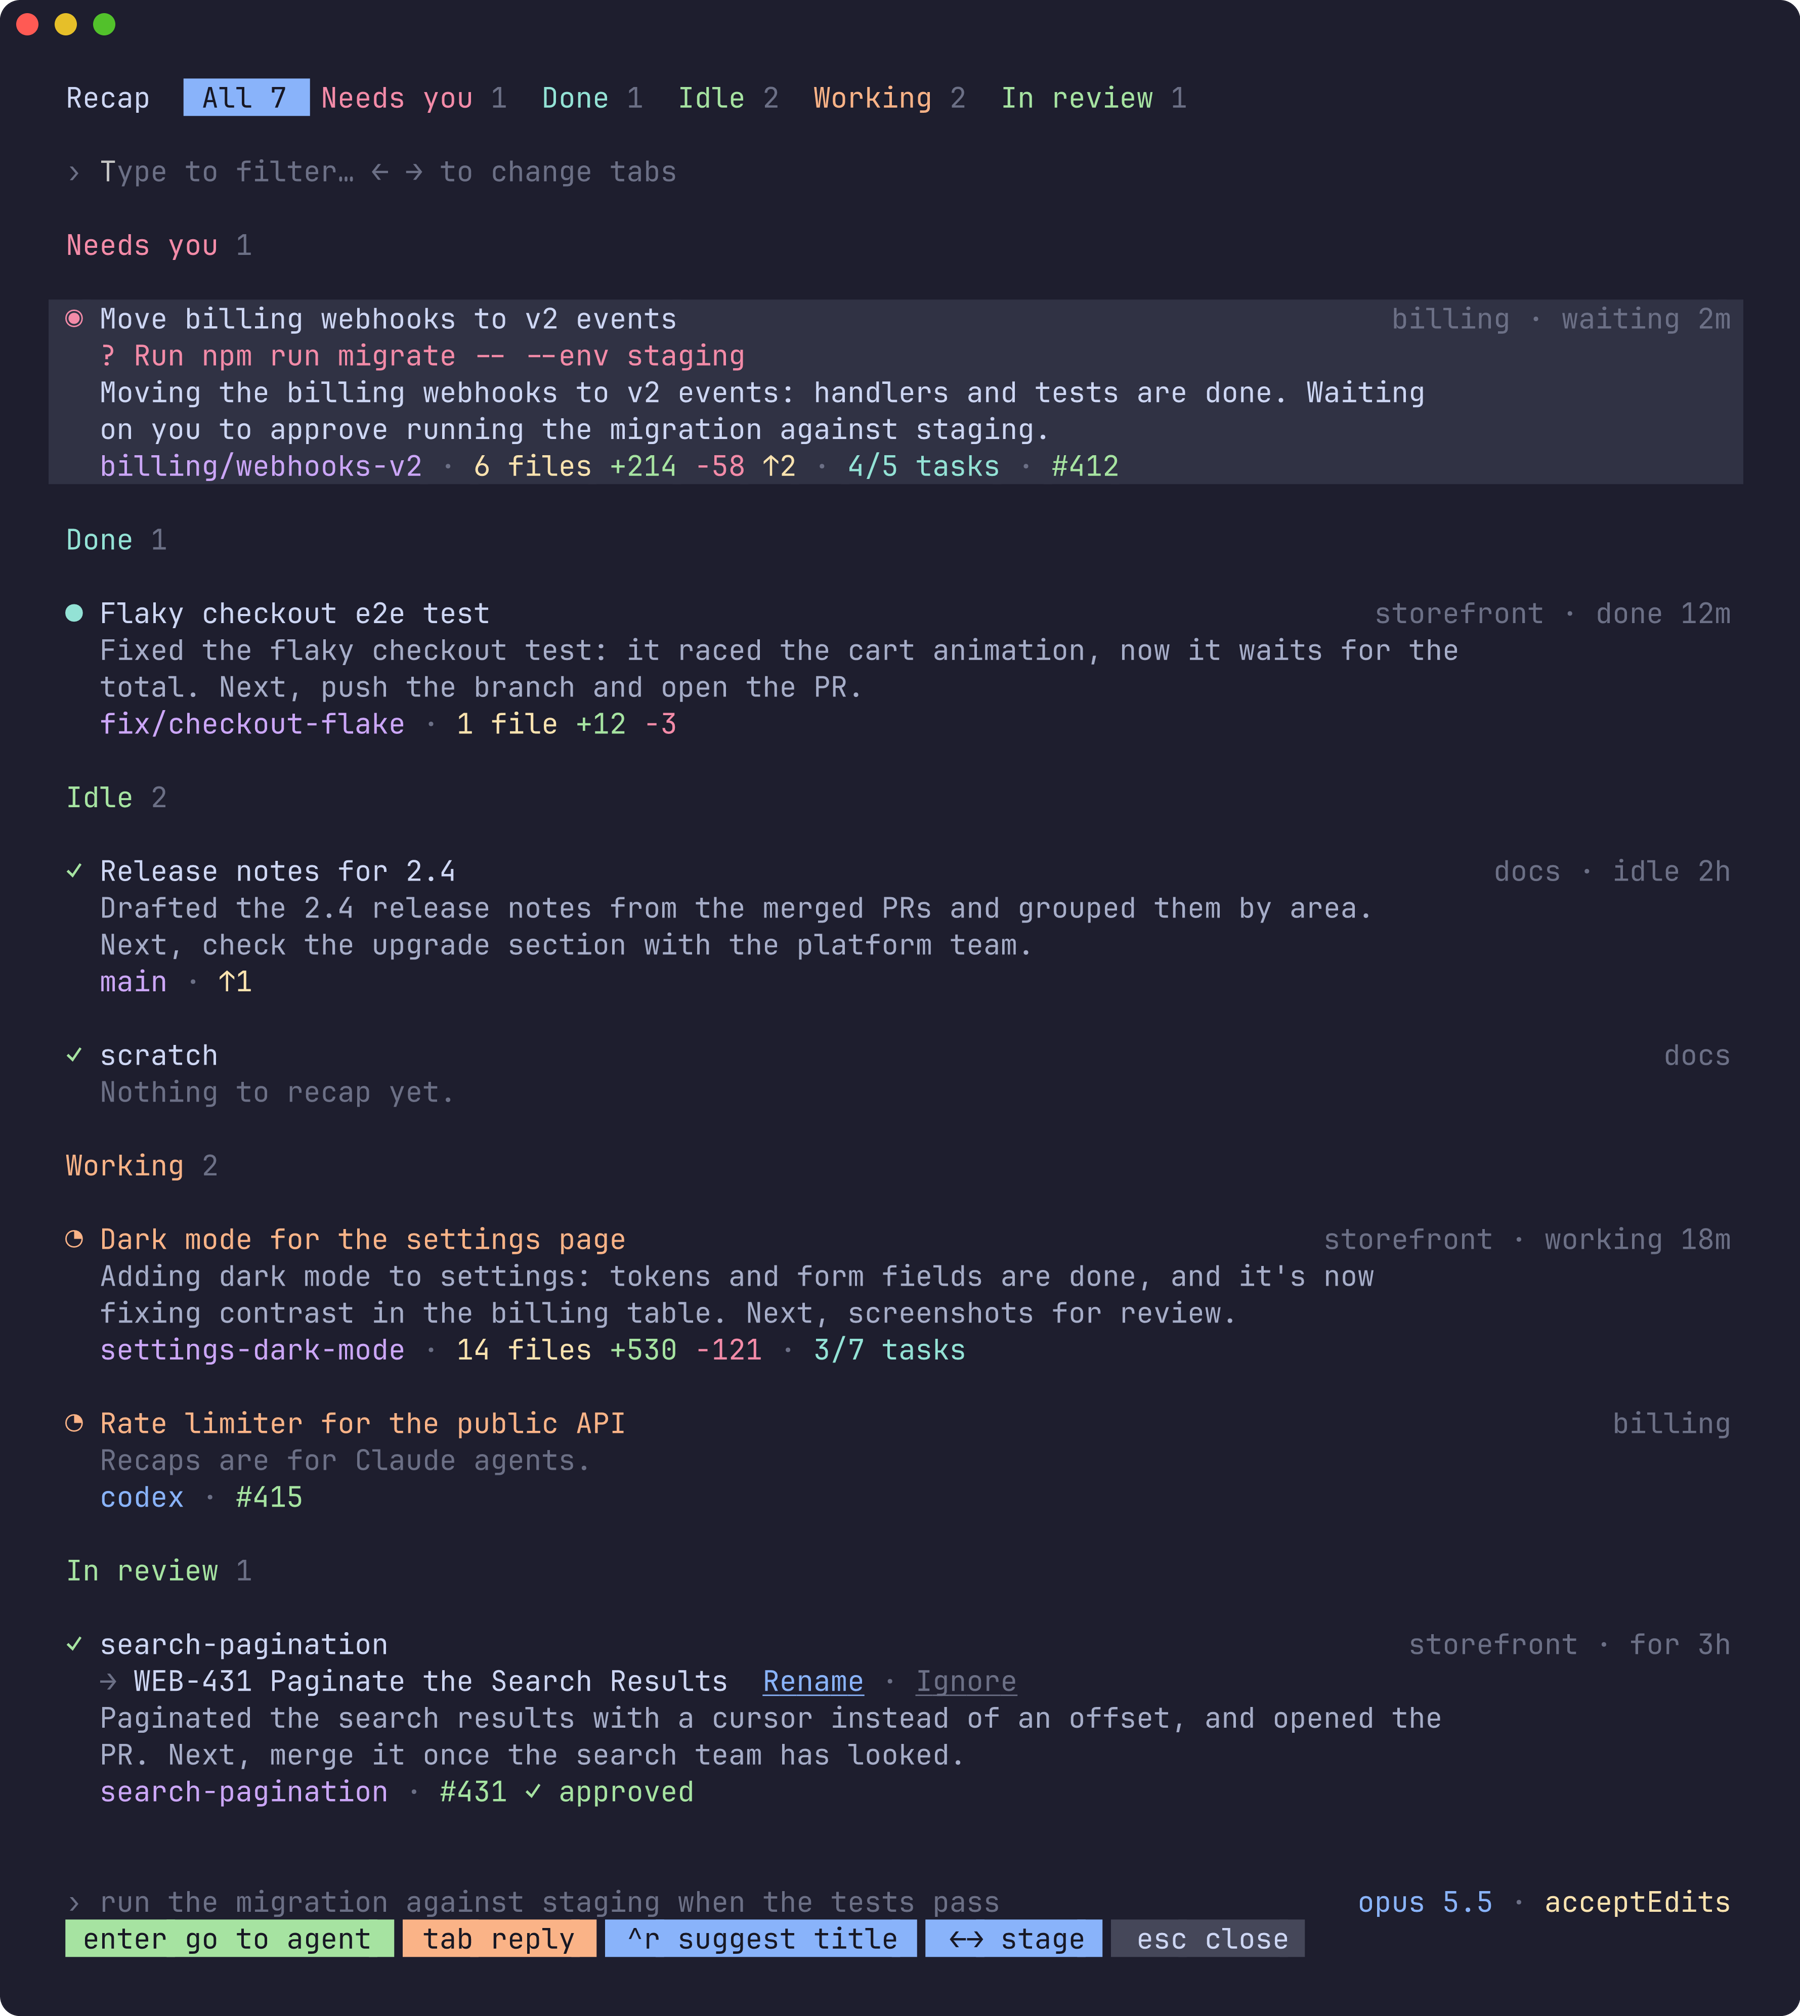
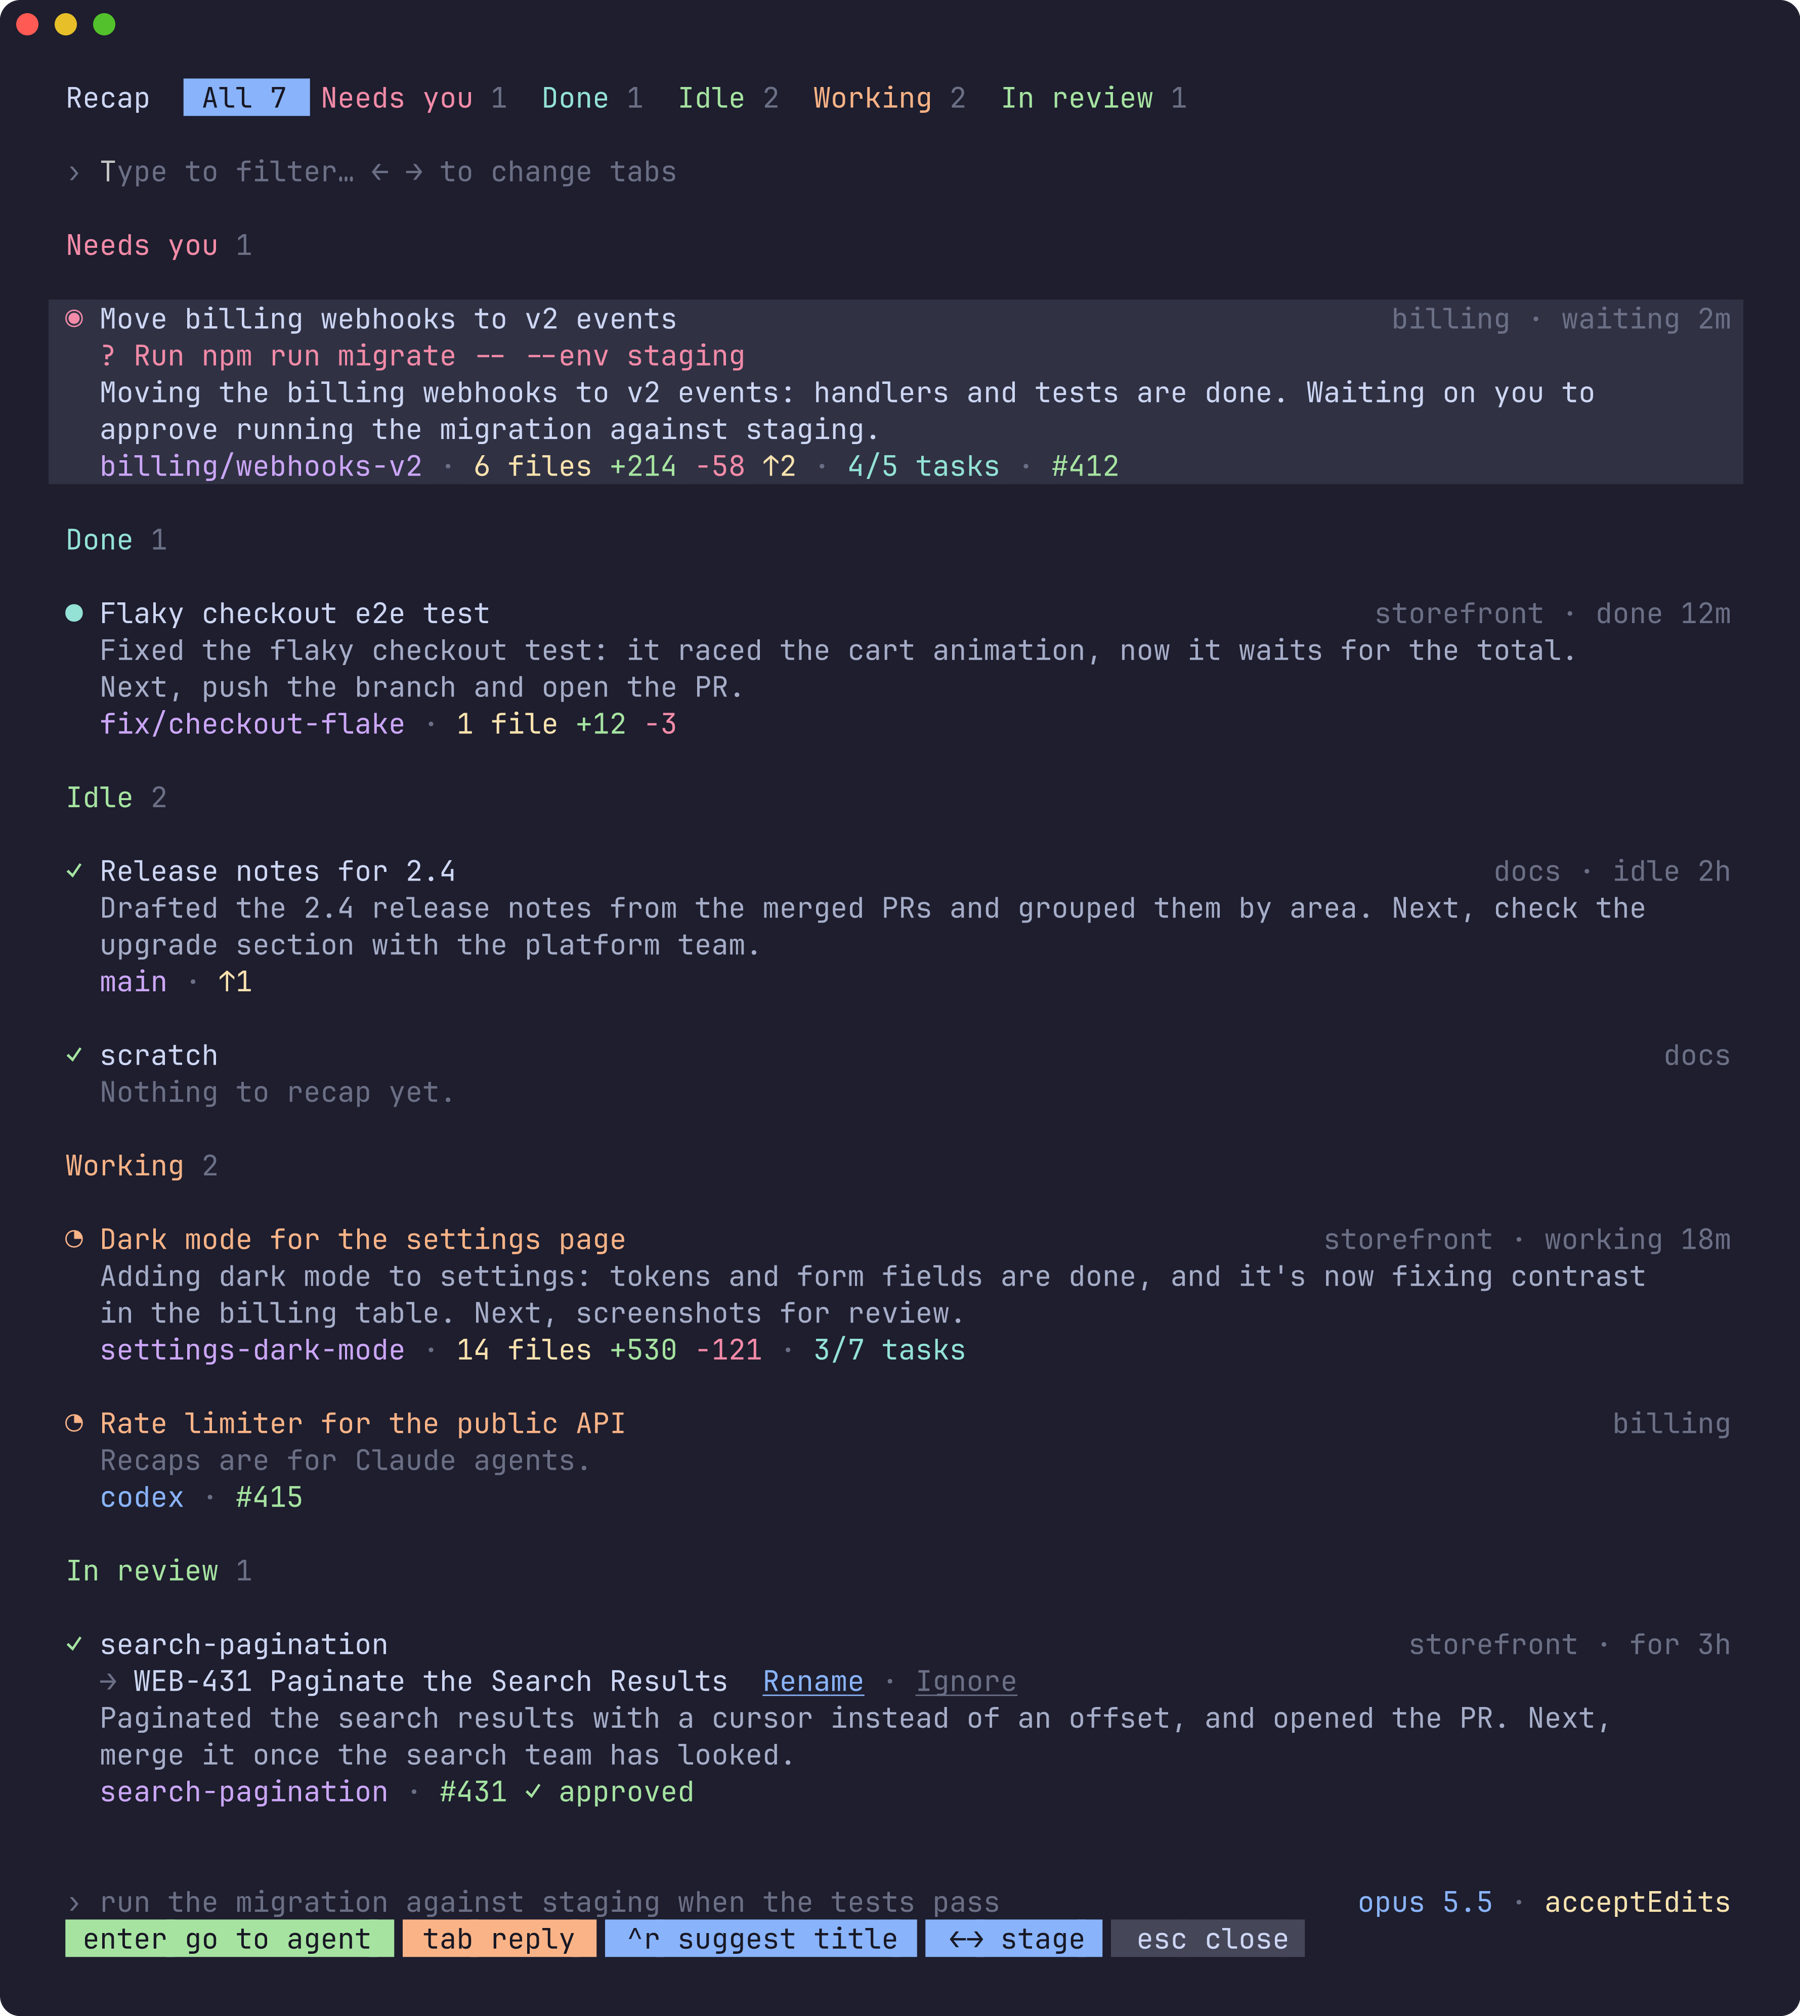
Release 0.5.1: a recap runs the width of the popup
Recap lines stopped at 80 columns whatever the popup's width, which on a
wide terminal left most of it empty and kept every recap at three lines.
They wrap near the popup's edge now, a line or two on a wide one, so more
agents fit. The margin on the right grows with the popup: 3 cells on a
narrow one, up to 8 on a wide one.

Screenshots regenerated.

diff --git a/tui.go b/tui.go
@@ -863,12 +863,15 @@ func (m model) listHeight() int {
 	return max(3, m.height-listTop-2-max(0, m.replyLines()-1))
 }
 
-// maxRecapWidth keeps recap lines to a comfortable measure on a wide popup.
-const maxRecapWidth = 80
-
-// recapWidth is the room a recap line has: indented under the title, and no
-// wider than maxRecapWidth.
-func (m model) recapWidth() int { return max(10, min(maxRecapWidth, m.width-6)) }
+// recapWidth is the room a recap line has: indented under the title, and
+// short of the popup's right edge by a margin that grows with the popup (3
+// cells on a narrow one, 8 on a wide one), so the text doesn't run into the
+// border. On a wide popup a recap is a line or two, not three, and more
+// agents fit.
+func (m model) recapWidth() int {
+	margin := min(8, max(3, m.width/16))
+	return max(10, m.width-3-margin)
+}
 
 // body is what goes under an agent's title: its recap wrapped, or why there
 // isn't one.

diff --git a/tui_test.go b/tui_test.go
@@ -496,6 +496,26 @@ func TestAWorkingAgentIsRecappedOnceWhileOpen(t *testing.T) {
 	}
 }
 
+func TestARecapUsesAWidePopupsWidth(t *testing.T) {
+	m, _ := demoModel(t)
+	e := m.entries["w2:p1"] // its recap is two lines at 100 wide
+	if lines, _ := m.body(e); len(lines) != 2 {
+		t.Fatalf("%d lines at 100 wide: %q", len(lines), lines)
+	}
+	m.width = 200
+	lines, _ := m.body(e)
+	if len(lines) != 1 || ansi.StringWidth(lines[0]) <= 100 {
+		t.Errorf("%d lines at 200 wide: %q", len(lines), lines)
+	}
+	// Short of the right edge, by more on a wide popup than a narrow one.
+	for width, want := range map[int]int{40: 34, 100: 91, 200: 189} {
+		m.width = width
+		if got := m.recapWidth(); got != want {
+			t.Errorf("at %d wide a recap has %d cells, want %d", width, got, want)
+		}
+	}
+}
+
 func TestScrollingKeepsTheCursorInView(t *testing.T) {
 	m, _ := demoModel(t)
 	next, _ := m.Update(tea.WindowSizeMsg{Width: 100, Height: 12})

diff --git a/CHANGELOG.md b/CHANGELOG.md
@@ -1,5 +1,12 @@
 # Changelog
 
+## 0.5.1 - 2026-10-11
+
+- **A recap runs the width of the popup**, where it stopped at 80 columns:
+  on a wide terminal it's a line or two, and more agents fit. It stops short
+  of the right edge by a margin that grows with the popup, 3 cells on a
+  narrow one and up to 8 on a wide one.
+
 ## 0.5.0 - 2026-10-10
 
 - **Better titles, suggested with the recap.** An agent with no title, a slug
